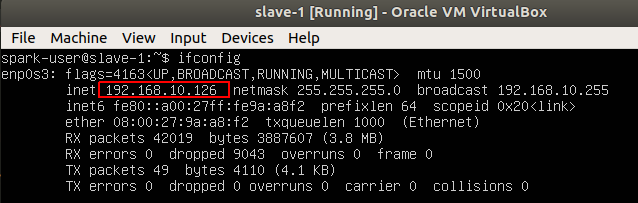
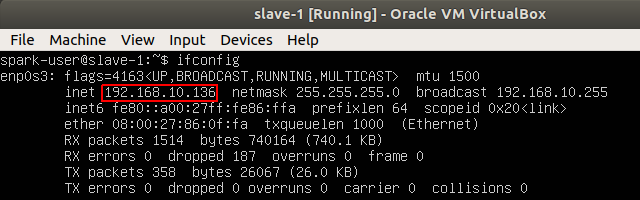
.

Changed region(s): [[0.0, 0.03, 1.0, 0.99]]

diff --git a/1- Virtual Machine Installation & Configuration/guide.md b/1- Virtual Machine Installation & Configuration/guide.md
@@ -30,45 +30,45 @@ virtualbox &
 - Click "New" button.
 - Enter _Name_ as "slave-1", _Type_ as "Linux", _Version_ as "Ubuntu (64-bit)".
 
-![VM-1-1](screenshots/2_create_first_slave_machine/1.png)
+![VM-1-1](./screenshots/2_create_first_slave_machine/1.png)
 
 - Select the amount of memory (RAM). We select _2048 MB_ (2 GB), arbitrarily.  You can change it up to your needs.
 
-![VM-1-2](screenshots/2_create_first_slave_machine/2.png)
+![VM-1-2](./screenshots/2_create_first_slave_machine/2.png)
 
 - Create a _virtual hard disk_ for convenience.
 
-![VM-1-3](screenshots/2_create_first_slave_machine/3.png)
+![VM-1-3](./screenshots/2_create_first_slave_machine/3.png)
 
 - Choose _VDI (VirtualBox Disk Image)_.
 
-![VM-1-4](screenshots/2_create_first_slave_machine/4.png)
+![VM-1-4](./screenshots/2_create_first_slave_machine/4.png)
 
 - _Dynamically allocated_ has its own advantages, so we will choose it. But _fixed-size_ option would also be selected if we were sure that disk size don't need to change in the future.
 
-![VM-1-5](screenshots/2_create_first_slave_machine/5.png)
+![VM-1-5](./screenshots/2_create_first_slave_machine/5.png)
 
 - We will enter the name of the new virtual hard disk file as "slave-1". This name is arbitrary, you can change it. Size of the virtual hard disk is **very important**. You should set it at least **20 GB**, we will set it as _50 GB_ to be safe.
 
-![VM-1-6](screenshots/2_create_first_slave_machine/6.png)
+![VM-1-6](./screenshots/2_create_first_slave_machine/6.png)
 
 - Choose the Ubuntu ISO, you downloaded before.
 
-![VM-1-7](screenshots/2_create_first_slave_machine/7.png)
-![VM-1-8](screenshots/2_create_first_slave_machine/8.png)
-![VM-1-9](screenshots/2_create_first_slave_machine/9.png)
+![VM-1-7](./screenshots/2_create_first_slave_machine/7.png)
+![VM-1-8](./screenshots/2_create_first_slave_machine/8.png)
+![VM-1-9](./screenshots/2_create_first_slave_machine/9.png)
 
 - Pass the initial parts and select the options. When you are in  _Profile setup_ part. We will set "Your Name" as _spark-user_, "Your server's name" as _slave-1_, "Pick a username" as _spark-user_. Names can change but user-names should be the same among all machines to be safe in future ssh connections.
 
-![VM-1-10](screenshots/2_create_first_slave_machine/10.png)
+![VM-1-10](./screenshots/2_create_first_slave_machine/10.png)
 
 - Select "Install OpenSSH Server".
 
-![VM-1-11](screenshots/2_create_first_slave_machine/11.png)
+![VM-1-11](./screenshots/2_create_first_slave_machine/11.png)
 
 - No need to install any packages listed here. We can install them after the installation if needed.
 
-![VM-1-12](screenshots/2_create_first_slave_machine/12.png)
+![VM-1-12](./screenshots/2_create_first_slave_machine/12.png)
 
 - Reboot after installation and you are done!
 
@@ -79,15 +79,15 @@ You don't have to do all the things again. Simply, clone the first virtual machi
 - Shut machine "slave-1" down.
 - Click right click on "slave-1" and select "clone" option. Rename the machine to "slave-2".
 
-![VM-2-1](screenshots/3_create_second_slave_machine/1.png)
+![VM-2-1](./screenshots/3_create_second_slave_machine/1.png)
 
 - Choose _full clone_ option and hit _Clone_.
 
-![VM-2-2](screenshots/3_create_second_slave_machine/2.png)
+![VM-2-2](./screenshots/3_create_second_slave_machine/2.png)
 
 - Our second virtual machine is ready, but the hostname of the machine is still "slave-1". In order to fix this, start slave-2 and login with credentials you defined in the installation of slave-1.
 
-![VM-2-3](screenshots/3_create_second_slave_machine/3.png)
+![VM-2-3](./screenshots/3_create_second_slave_machine/3.png)
 
 - After login enter the command below:
 ```bash
@@ -97,7 +97,7 @@ exit # Logout to check the new host-name
 
 - If you see a screen like this, then everything is fine:
 
-![VM-2-4](screenshots/3_create_second_slave_machine/4.png)
+![VM-2-4](./screenshots/3_create_second_slave_machine/4.png)
 
 
 We have 2 Virtual Ubuntu 18 machines now. Note that, you could have done the cloning operation later. But when you do it later, you should remember to change all variables specific to the machine, such as IP. 
@@ -111,25 +111,25 @@ sudo apt update && sudo apt upgrade
 ```
 - Log into one machine (let's say "slave-1") and run the command ```ifconfig```. You will see that IP address like 10.0.X.Y shown below:
 
-![VM-3-1](screenshots/4_network_configuration/1.png)
+![VM-3-1](./screenshots/4_network_configuration/1.png)
 
 This is a default IP address for virtual machine. All machines can connect to the internet with this IP address, but cannot connect to each other directly. So, we need a private network for 3 machines and IP addresses must follow the pattern of "192.168.X.Y". 
 
 - If your local machine is connected to the internet (otherwise you couldn't update the virtual machines), your local machine must have already a private network IP address which starts with "192.168". We need to determine which **network interface** is responsible for this network in local. So, run the command ```ifconfig``` in your _local machine_. The output would be like this:
 
-![VM-3-2](screenshots/4_network_configuration/2.png) 
+![VM-3-2](./screenshots/4_network_configuration/2.png) 
 
 The network interface we should remember is _enp3s0_ in this scenario.
 
 - Go to VirtualBox, right click on both virtual machines, go to _Settings_ and go to _Network_ tab. You should see "NAT" adapter attached. Change this to "Bridged Adapter" and change name to "enp3s0" (i.e. the network interface we found). You don't need any other adapter. Apply this for _both machines_, as shown below:
 
-![VM-3-3](screenshots/4_network_configuration/3.png) 
-![VM-3-4](screenshots/4_network_configuration/4.png) 
+![VM-3-3](./screenshots/4_network_configuration/3.png) 
+![VM-3-4](./screenshots/4_network_configuration/4.png) 
 
 - Login to both machines and run the command ```ifconfig```. You will see that each machine has its own IP starts with "192.168", as shown below:
 
-![VM-3-5](screenshots/4_network_configuration/5.png) 
-![VM-3-6](screenshots/4_network_configuration/6.png)
+![VM-3-5](./screenshots/4_network_configuration/5.png) 
+![VM-3-6](./screenshots/4_network_configuration/6.png)
 
 We already know that our local machine's IP is ```192.168.10.107 ```. So we can make a table like this:
 
@@ -137,18 +137,18 @@ We already know that our local machine's IP is ```192.168.10.107 ```. So we can 
 | Host-Name | IP Address     | Info                      |
 |-----------|----------------|---------------------------|
 | master    | 192.168.10.107 | Local Ubuntu Machine      |
-| slave-1   | 192.168.10.126 | Virtual Ubuntu 18 Machine |
-| slave-2   | 192.168.10.128 | Virtual Ubuntu 18 Machine |
+| slave-1   | 192.168.10.136 | Virtual Ubuntu 18 Machine |
+| slave-2   | 192.168.10.134 | Virtual Ubuntu 18 Machine |
 
 - In _master machine_ (local machine), we will add these hostnames in order to be safe in the future. Open ```/etc/hosts``` file with your favorite text editor (gedit,GNU Emacs, Nano, vim, etc.) and add the following lines to the top of the document:
 ```bash
 192.168.10.107	master
-192.168.10.126	slave-1	
-192.168.10.128	slave-2
+192.168.10.136	slave-1	
+192.168.10.134	slave-2
 ```
 and file look will look like:
 
-![VM-3-7](screenshots/4_network_configuration/7.png)
+![VM-3-7](./screenshots/4_network_configuration/7.png)
 
 - In order to be sure that everything is fine so far, ping all machines in local machine:
 
@@ -157,8 +157,82 @@ ping master
 ping slave-1	
 ping slave-2
 ```
-- You will see that ICMP packages find slaves and master machines:
 
-![VM-3-8](screenshots/4_network_configuration/8.png)
+- You should see that ICMP packages find slaves and master machines:
+
+![VM-3-8](./screenshots/4_network_configuration/8.png)
 
 ## 1.5. SSH Configuration
+- First let's create a linux user dedicated to spark & hdfs operations. We created "spark-user" users in slave machines before, so we can add a user with same name in _master machine._ In master machine run the following commands:
+```bash
+sudo adduser spark-user # Add a user with name "spark-user".
+```
+Enter & retype a password and press enter for following questions. 
+
+- Run the following command to add a group with the same name:
+```bash
+sudo usermod -aG spark-user spark-user # Add a group with name "spark-user".
+```
+
+- Add "spark-user" to sudoers in order to allow spark-user to be root:
+```bash
+sudo adduser spark-user sudo
+```
+- Login as "spark-user":
+```bash
+su spark-user
+```
+
+- Make sure that openssh-server is installed correctly. If you are not sure and just to be safe, run the following commands:
+```bash
+sudo apt-get purge openssh-server # Removes openssh-server completely
+sudo apt-get install openssh-server # Installs openssh-server
+ssh localhost
+```
+You should successfully connect to localhost via ssh.
+
+- As "spark-user", create ssh-key with following command:
+```bash
+su spark-user
+ssh-keygen
+```
+You can press enter the all questions showed up in ssh-key generation.
+
+- Your public key should be in ```/home/spark-user/.ssh/id_rsa.pub```. To check this, run the following command:
+```bash
+cat /home/spark-user/.ssh/id_rsa.pub
+```
+If you see a long string starts with "ssh-rsa ", then everything's ok.
+
+- Now we will copy this id to all machines for paswordless login. Run the following commands:
+```bash
+ssh-copy-id spark-user@slave-1
+ssh-copy-id spark-user@slave-2
+ssh-copy-id spark-user@master
+```
+- Now, ssh to machines seperately, to check that ssh configuration is set correctly.
+```bash
+ssh slave-1
+exit # Exit from machine slave-1
+```
+```bash
+ssh slave-2
+exit # Exit from machine slave-2
+```
+```bash
+ssh master
+exit # Exit from master
+```
+You should see no password authentication and it should connect directly.
+
+
+## To next section
+```bash
+chown spark-user:root -R /usr/local/spark-user
+chmod g+rwx -R /usr/local/spark-user
+```
+
+
+## References
+* https://www.linuxbabe.com/linux-server/setup-passwordless-ssh-login
+* https://dzone.com/articles/install-a-hadoop-cluster-on-ubuntu-18041
